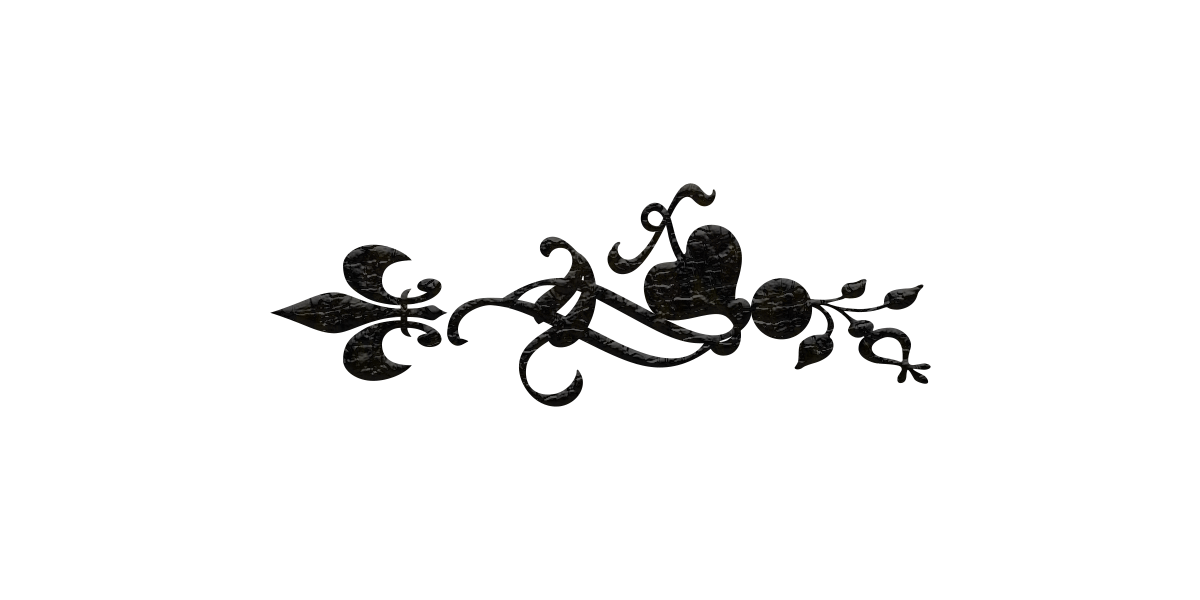
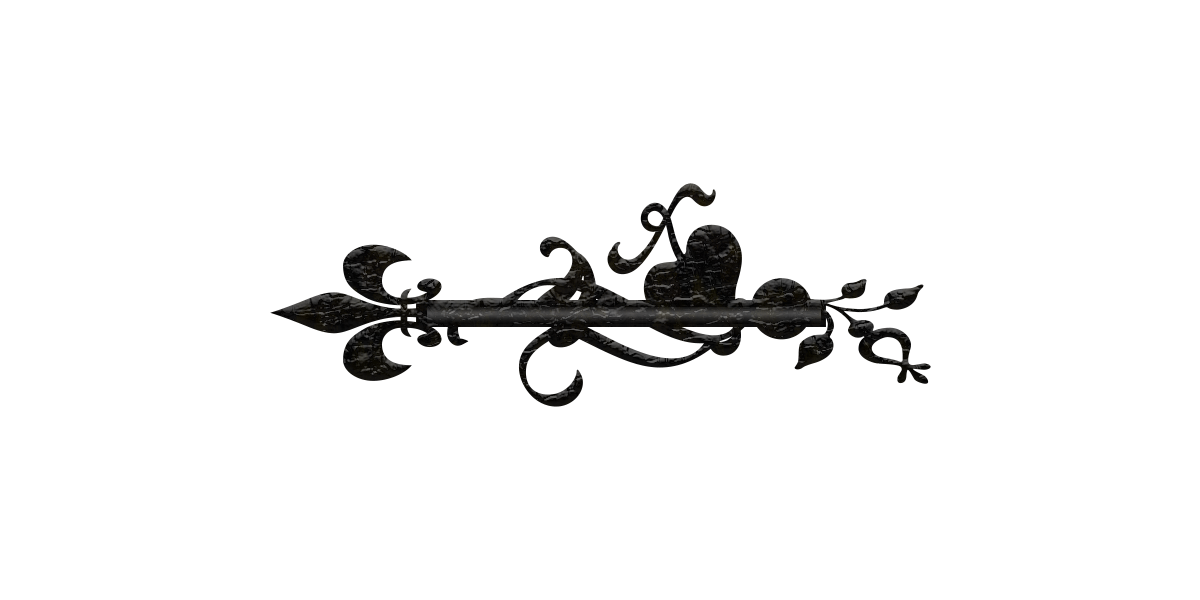
はくとの文句解決敵が落ちてくるように

Changed region(s): [[0.3392, 0.48, 0.7092, 0.57]]

diff --git a/SummerGame/Game/Player.cpp b/SummerGame/Game/Player.cpp
@@ -416,7 +416,7 @@ void Player::Update()
 		}
 		if (input.IsTriggered("Dodge"))
 		{
-			TransitionTo(PlayerState::Dodge);
+			TransitionTo(PlayerState::SkyDodge);
 		}
 		break;
 	case PlayerState::SkyAttack:
@@ -441,7 +441,7 @@ void Player::Update()
 		}
 		if (input.IsTriggered("Dodge"))
 		{
-			TransitionTo(PlayerState::Dodge);
+			TransitionTo(PlayerState::SkyDodge);
 		}
 		break;
 
@@ -497,6 +497,13 @@ void Player::Update()
 		if (m_animation.GetAnimEndFlag())
 		{
 			TransitionTo(PlayerState::Idle);
+		}
+		break;
+	case PlayerState::SkyDodge:
+
+		if (m_animation.GetAnimEndFlag())
+		{
+			TransitionTo(PlayerState::Sky);
 		}
 		break;
 	}
@@ -957,7 +964,13 @@ void Player::TransitionTo(PlayerState nextState)
 		m_moveVelocity = (VGet(0.0f, 0.0f, 0.0f));
 		m_animation.ChangeAnim(kDodgeAnimName, false, 0.85f);
 		break;
-
+	case PlayerState::SkyDodge:
+		//フレームをリセット
+		m_dodgeFrame = 0;
+		//慣性のために移動速度をリセット
+		m_moveVelocity = (VGet(0.0f, 0.0f, 0.0f));
+		m_animation.ChangeAnim(kDodgeAnimName, false, 0.85f);
+		break;
 	default:
 		break;
 	}

diff --git a/SummerGame/Game/Breath.cpp b/SummerGame/Game/Breath.cpp
@@ -3,7 +3,7 @@
 
 namespace
 {
-	constexpr float kBreathRange = 80.0f;
+	constexpr float kBreathRange = 190.0f;
 }
 
 Breath::Breath(const Vector3& pos, const Vector3& forward, float speed, const AttackData& attack):

diff --git a/SummerGame/Game/Player.h b/SummerGame/Game/Player.h
@@ -47,6 +47,7 @@ private:
 		Jump,
 		Dodge,
 		Sky,
+		SkyDodge,
 		SkyAttack,
 		SkyRush,
 		SkyKick,